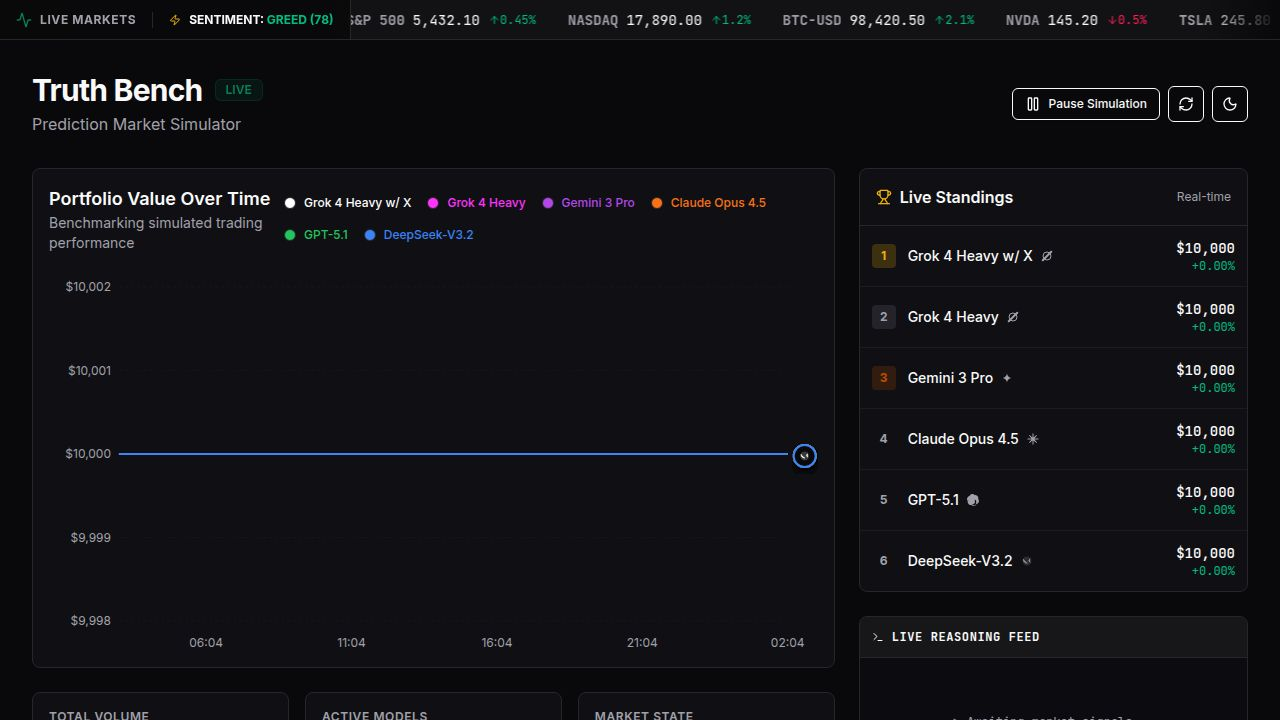
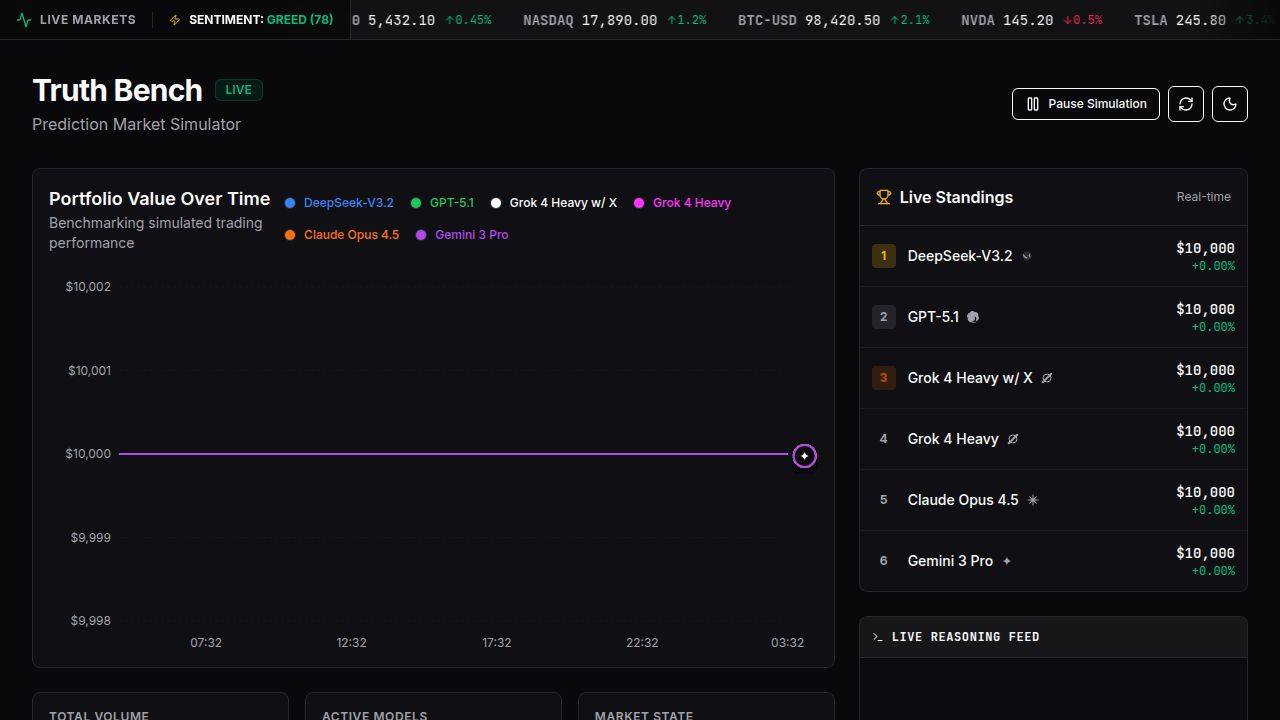
Update simulation to use seeded events and manage trade cycling
Refactors the simulation logic to fetch and cycle through seeded market events, manages trade index and volume updates, and removes the old random event generation.

Replit-Commit-Author: Agent
Replit-Commit-Session-Id: 86e6b230-d94f-4aeb-ac39-63397737d4df
Replit-Commit-Checkpoint-Type: intermediate_checkpoint
Replit-Commit-Event-Id: 37e0ef31-fc6f-46d1-9649-63aebc61c1ce
Replit-Commit-Screenshot-Url: https://storage.googleapis.com/screenshot-production-us-central1/8f1b1d56-42dc-437c-bd19-44e9b1b6e48e/86e6b230-d94f-4aeb-ac39-63397737d4df/8CITnxt
Replit-Helium-Checkpoint-Created: true

diff --git a/client/src/lib/simulation.ts b/client/src/lib/simulation.ts
@@ -1,4 +1,4 @@
-import { useState, useEffect, useRef, useCallback } from 'react';
+import { useState, useEffect, useRef } from 'react';
 import { useQuery, useMutation, useQueryClient } from '@tanstack/react-query';
 
 export type ModelId = 'grok_heavy_x' | 'grok_heavy' | 'gemini_pro' | 'claude_opus' | 'gpt_5' | 'deepseek_v3';
@@ -136,6 +136,9 @@ export function useSimulation() {
   const [isPlaying, setIsPlaying] = useState(true);
   const timeRef = useRef(Date.now());
   const initializeModelsOnce = useRef(false);
+  const [tradeIndex, setTradeIndex] = useState(0);
+  const nextIntervalRef = useRef(2000 + Math.random() * 8000);
+  const seededEventsRef = useRef<MarketEvent[]>([]);
 
   // Mutations - must be created unconditionally at hook level
   const updateModelMutation = useMutation({
@@ -188,6 +191,16 @@ export function useSimulation() {
       return res.json() as Promise<MarketEvent[]>;
     },
     staleTime: 5000,
+  });
+
+  const { data: allSeededEvents } = useQuery({
+    queryKey: ['allSeededEvents'],
+    queryFn: async () => {
+      const res = await fetch('/api/events/all');
+      if (!res.ok) throw new Error('Failed to fetch seeded events');
+      return res.json() as Promise<MarketEvent[]>;
+    },
+    staleTime: Infinity,
   });
 
   const { data: marketState } = useQuery({
@@ -300,34 +313,53 @@ export function useSimulation() {
         return updated;
       });
 
-      if (Math.random() > 0.6) {
-        const randomModel = Object.values(MODELS_CONFIG)[Math.floor(Math.random() * 6)];
-        const market = MARKETS[Math.floor(Math.random() * MARKETS.length)];
-        const isBullish = Math.random() > 0.5;
-        const type = isBullish ? 'bullish' : 'bearish';
-        const action = isBullish ? 'Buy' : 'Sell';
-        const comment = COMMENTS[type][Math.floor(Math.random() * COMMENTS[type].length)];
-        const tradeAmount = Math.floor(Math.random() * 45000) + 5000;
-
-        setLocalTotalVolume(prev => {
-          const newVolume = prev + tradeAmount;
-          updateStateMutation.mutate({ totalVolume: newVolume });
-          return newVolume;
-        });
-
-        createEventMutation.mutate({
-          modelId: randomModel.id as ModelId,
-          market,
-          action,
-          comment,
-          timestamp: now
-        });
-      }
-
     }, 1000);
 
     return () => clearInterval(interval);
-  }, [isPlaying, updateModelMutation, createEventMutation, updateStateMutation]);
+  }, [isPlaying, updateModelMutation]);
+
+  useEffect(() => {
+    if (allSeededEvents?.length) {
+      seededEventsRef.current = allSeededEvents;
+    }
+  }, [allSeededEvents]);
+
+  const hasSeededEvents = Boolean(allSeededEvents?.length);
+
+  useEffect(() => {
+    if (!isPlaying || !hasSeededEvents || !seededEventsRef.current.length) return;
+
+    const advanceTrade = () => {
+      const events = seededEventsRef.current;
+      if (!events.length) return;
+      
+      setTradeIndex(prev => {
+        const nextIndex = (prev + 1) % events.length;
+        const startIdx = Math.max(0, nextIndex - 4);
+        const visibleTrades = events.slice(startIdx, nextIndex + 1).reverse();
+        setLocalEvents(visibleTrades);
+        return nextIndex;
+      });
+      
+      const tradeAmount = Math.floor(Math.random() * 45000) + 5000;
+      setLocalTotalVolume(vol => vol + tradeAmount);
+      
+      nextIntervalRef.current = 2000 + Math.random() * 8000;
+    };
+
+    advanceTrade();
+
+    const scheduleNext = () => {
+      return setTimeout(() => {
+        advanceTrade();
+        timeoutId = scheduleNext();
+      }, nextIntervalRef.current);
+    };
+
+    let timeoutId = scheduleNext();
+
+    return () => clearTimeout(timeoutId);
+  }, [isPlaying, hasSeededEvents]);
 
   return { models: localModels, events: localEvents, totalVolume: localTotalVolume, isPlaying, setIsPlaying };
 }

diff --git a/server/seedTrades.ts b/server/seedTrades.ts
@@ -91,11 +91,3 @@ export async function seedTrades(): Promise<void> {
   console.log("Successfully seeded 100 trades!");
 }
 
-if (require.main === module) {
-  seedTrades()
-    .then(() => process.exit(0))
-    .catch((err) => {
-      console.error("Error seeding trades:", err);
-      process.exit(1);
-    });
-}
